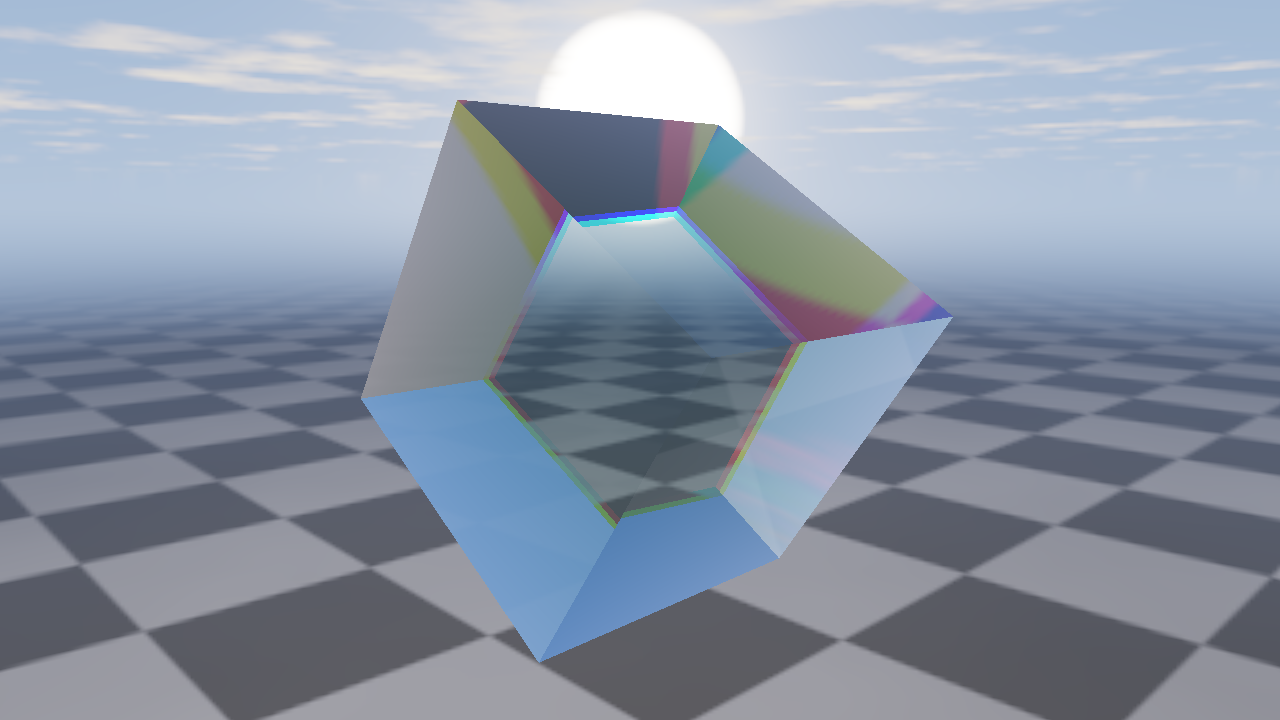
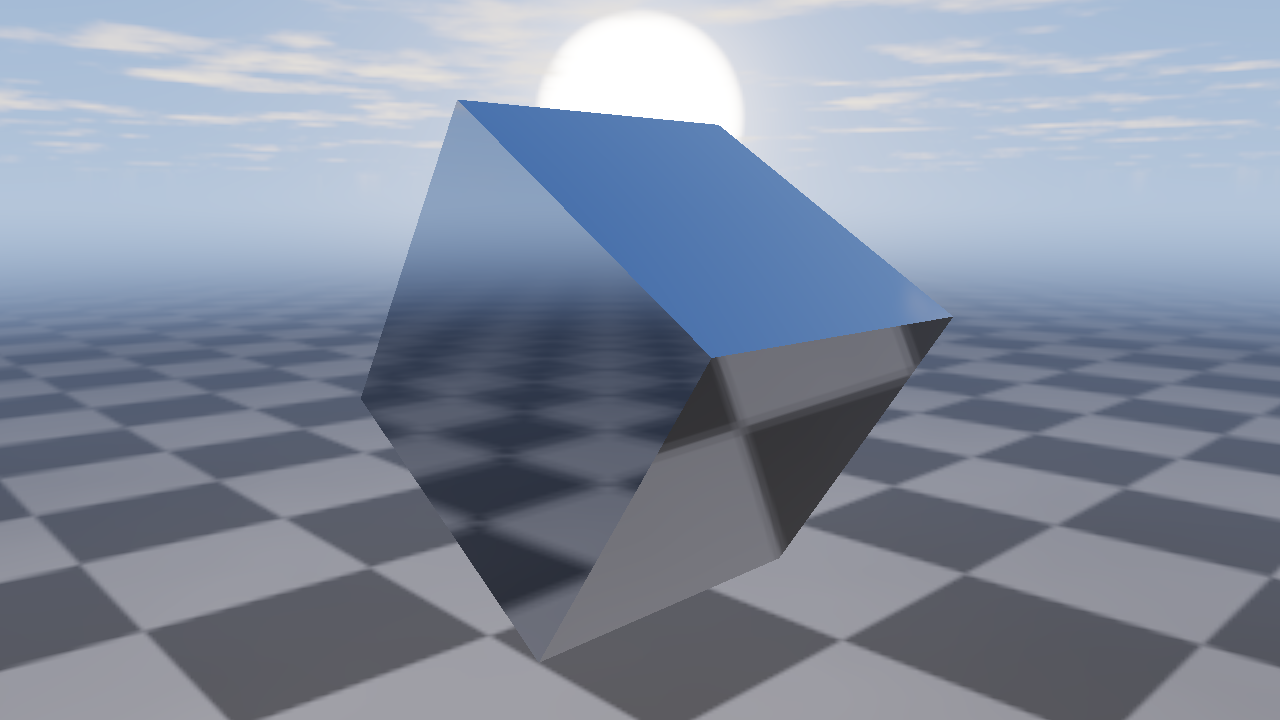
docs: make the environment map cube mirror metal
Replaces the glass shading with a polished-chrome conductor: one reflected ray
per pixel (a small cone of taps stands in for a roughness mip chain) weighted by
Schlick Fresnel over chrome's real normal-incidence reflectance, so the cube
reads as metal against the background instead of transmitting it.

Claude-Session: https://claude.ai/code/session_01GYg1cxsrXhgVLiY5aMn7qw

Changed region(s): [[0.2812, 0.1222, 0.75, 0.9167]]

diff --git a/apps/docs/lib/examples-source.generated.ts b/apps/docs/lib/examples-source.generated.ts
@@ -82,7 +82,7 @@ export const exampleSources = {
     {
       "name": "example.ts",
       "lang": "typescript",
-      "code": "import type { Draw, Effect, Frame, Gpu, Mesh, Surface, Target } from 'vgpu';\nimport { box } from 'vgpu/scene';\nimport { cameraView, spinMatrix, type CameraView } from './camera';\nimport { installOrbitInput } from './controls';\nimport skyWgsl from './sky.wgsl';\nimport glassWgsl from './glass.wgsl';\nimport presentWgsl from './present.wgsl';\n\ntype Output = Surface | Target;\ninterface ThumbOptions { warmupFrames?: number; dt?: number; time?: number }\n\nconst HDR_FORMAT: GPUTextureFormat = 'rgba16float';\n/** 2:1 is the equirectangular aspect: 360° of yaw by 180° of pitch. */\nconst ENV_SIZE: readonly [number, number] = [2048, 1024];\nconst CUBE_SIZE = 1.25;\nconst EXPOSURE = 0.9;\n\nconst SKY = {\n  sun_direction: [-0.724, 0.09, -0.684],\n  sun_angular_size: 0.05,\n  sun_color: [1.0, 0.88, 0.72],\n  sun_intensity: 26,\n  zenith_color: [0.05, 0.15, 0.44],\n  cloud_coverage: 0.56,\n  horizon_color: [0.36, 0.48, 0.74],\n  cloud_scale: 0.75,\n  ground_color: [0.05, 0.05, 0.056],\n  ground_scale: 1.7,\n} as const;\n\nconst GLASS = {\n  ior: 1.47,\n  dispersion: 0.045,\n  absorption: 0.26,\n  half_extent: CUBE_SIZE / 2,\n  edge_tint: 0.3,\n} as const;\n\ninterface Scene {\n  readonly env: Target;\n  readonly hdr: Target;\n  readonly mesh: Mesh;\n  readonly cube: Draw;\n  readonly present: Effect;\n}\n\nexport async function run(canvas: HTMLCanvasElement): Promise<() => void> {\n  const { init } = await import('vgpu');\n  const gpu = await init();\n  const surface = gpu.surface(canvas, { dpr: [1, 2] });\n  const scene = await createScene(gpu, surface);\n  const input = installOrbitInput(canvas);\n  let disposed = false;\n  let sawInitialResize = false;\n\n  const unsubscribeResize = surface.onResize(() => {\n    if (!sawInitialResize) { sawInitialResize = true; return; }\n    if (disposed) return;\n    scene.hdr.resize(surface.size);\n    // Resizing recreates the texture, so the composite binding has to be re-pointed.\n    scene.present.set({ scene_tex: scene.hdr });\n  });\n\n  const loop = gpu.frame.loop((frame) => {\n    input.advance(gpu.deltaTime);\n    render(frame, scene, surface, cameraView(input.yaw, input.pitch, aspectOf(surface)), gpu.time);\n  });\n\n  return () => {\n    if (disposed) return;\n    disposed = true;\n    loop.stop();\n    unsubscribeResize();\n    input.dispose();\n    destroyScene(scene);\n    surface.dispose();\n    gpu.dispose();\n  };\n}\n\nexport async function renderThumb(gpu: Gpu, output: Target, opts: ThumbOptions = {}): Promise<void> {\n  const scene = await createScene(gpu, output);\n  const dt = opts.dt ?? 1 / 60;\n  let time = opts.time ?? 2.1;\n\n  for (let i = 0; i < Math.max(1, opts.warmupFrames ?? 3); i++) {\n    time += dt;\n    const view = cameraView(0.62 + time * 0.09, 0.16, aspectOf(output));\n    gpu.frame((frame) => render(frame, scene, output, view, time));\n  }\n\n  await gpu.gpu.queue.onSubmittedWorkDone();\n  await gpu.settled();\n  destroyScene(scene);\n}\n\nasync function createScene(gpu: Gpu, output: Output): Promise<Scene> {\n  const env = gpu.target({ size: [...ENV_SIZE], format: HDR_FORMAT, label: 'environment-map-env' });\n  const hdr = gpu.target({ size: output.size, format: HDR_FORMAT, depth: true, label: 'environment-map-scene' });\n  const envSampler = gpu.sampler({\n    minFilter: 'linear',\n    magFilter: 'linear',\n    // u wraps the horizon; v must clamp so the poles never bleed across.\n    addressModeU: 'repeat',\n    addressModeV: 'clamp-to-edge',\n  });\n  const sceneSampler = gpu.sampler({ minFilter: 'linear', magFilter: 'linear' });\n\n  await bakeEnvironment(gpu, env);\n\n  const mesh = gpu.mesh(box({ size: CUBE_SIZE }));\n  const cube = gpu.draw({ shader: glassWgsl, mesh, label: 'environment-map-glass' });\n  cube.set({ ...GLASS, env_tex: env, env_samp: envSampler });\n\n  const present = gpu.effect(presentWgsl, { label: 'environment-map-present' });\n  present.set({ env_tex: env, env_samp: envSampler, scene_tex: hdr, scene_samp: sceneSampler });\n\n  await Promise.all([cube.compile(hdr), present.compile({ colors: [output.format] })]);\n  return { env, hdr, mesh, cube, present };\n}\n\n/**\n * One-shot pass that fills the equirectangular map; nothing re-runs it per frame.\n *\n * The map is baked procedurally so the example stays self-contained and renders the same\n * frame headlessly. To use a real 360° photo instead, replace this call with an upload and\n * hand the resulting texture to `set({ env_tex })` — nothing downstream changes:\n *\n * ```ts\n * const bitmap = await createImageBitmap(await (await fetch('/hdri.png')).blob());\n * const env = gpu.device.createTexture({\n *   size: [bitmap.width, bitmap.height],\n *   format: 'rgba8unorm',\n *   usage: ['texture_binding', 'copy_dst', 'render_attachment'],\n * });\n * gpu.gpu.queue.copyExternalImageToTexture({ source: bitmap }, { texture: env.gpu }, [bitmap.width, bitmap.height]);\n * ```\n */\nasync function bakeEnvironment(gpu: Gpu, env: Target): Promise<void> {\n  const bake = gpu.effect(skyWgsl, { label: 'environment-map-sky' });\n  bake.set({ sky: SKY });\n  await bake.compile(env);\n  gpu.frame((frame) => frame.pass({ target: env }, (pass) => pass.draw(bake)));\n}\n\nfunction render(frame: Frame, scene: Scene, output: Output, view: CameraView, time: number): void {\n  scene.cube.set({\n    view_projection: view.camera.viewProjection,\n    model: spinMatrix(time),\n    camera_position: view.position,\n  });\n  scene.present.set({\n    camera: {\n      position: view.position,\n      tan_half_fov: view.tanHalfFov,\n      forward: view.forward,\n      aspect: view.aspect,\n      right: view.right,\n      exposure: EXPOSURE,\n      up: view.up,\n      background_intensity: 1,\n    },\n  });\n\n  // Alpha 0 clear turns the cube pass into a coverage mask the composite reads back.\n  frame.pass({ target: scene.hdr, clear: [0, 0, 0, 0] }, (pass) => pass.draw(scene.cube));\n  frame.pass({ target: output }, (pass) => pass.draw(scene.present));\n}\n\nfunction aspectOf(output: Output): number {\n  return output.size[0] / Math.max(1, output.size[1]);\n}\n\nfunction destroyScene(scene: Scene): void {\n  for (const target of [scene.hdr, scene.env]) {\n    (target as Target & { destroy?: () => void }).destroy?.();\n  }\n}\n"
+      "code": "import type { Draw, Effect, Frame, Gpu, Mesh, Surface, Target } from 'vgpu';\nimport { box } from 'vgpu/scene';\nimport { cameraView, spinMatrix, type CameraView } from './camera';\nimport { installOrbitInput } from './controls';\nimport skyWgsl from './sky.wgsl';\nimport metalWgsl from './metal.wgsl';\nimport presentWgsl from './present.wgsl';\n\ntype Output = Surface | Target;\ninterface ThumbOptions { warmupFrames?: number; dt?: number; time?: number }\n\nconst HDR_FORMAT: GPUTextureFormat = 'rgba16float';\n/** 2:1 is the equirectangular aspect: 360° of yaw by 180° of pitch. */\nconst ENV_SIZE: readonly [number, number] = [2048, 1024];\nconst CUBE_SIZE = 1.25;\nconst EXPOSURE = 0.9;\n\nconst SKY = {\n  sun_direction: [-0.724, 0.09, -0.684],\n  sun_angular_size: 0.05,\n  sun_color: [1.0, 0.88, 0.72],\n  sun_intensity: 26,\n  zenith_color: [0.05, 0.15, 0.44],\n  cloud_coverage: 0.56,\n  horizon_color: [0.36, 0.48, 0.74],\n  cloud_scale: 0.75,\n  ground_color: [0.05, 0.05, 0.056],\n  ground_scale: 1.7,\n} as const;\n\nconst METAL = {\n  /** Normal-incidence reflectance of polished chrome; Fresnel takes the rest to white. */\n  base_color: [0.56, 0.57, 0.58],\n  /** Half-angle of the reflection cone, in radians. 0 is a perfect mirror. */\n  roughness: 0.008,\n} as const;\n\ninterface Scene {\n  readonly env: Target;\n  readonly hdr: Target;\n  readonly mesh: Mesh;\n  readonly cube: Draw;\n  readonly present: Effect;\n}\n\nexport async function run(canvas: HTMLCanvasElement): Promise<() => void> {\n  const { init } = await import('vgpu');\n  const gpu = await init();\n  const surface = gpu.surface(canvas, { dpr: [1, 2] });\n  const scene = await createScene(gpu, surface);\n  const input = installOrbitInput(canvas);\n  let disposed = false;\n  let sawInitialResize = false;\n\n  const unsubscribeResize = surface.onResize(() => {\n    if (!sawInitialResize) { sawInitialResize = true; return; }\n    if (disposed) return;\n    scene.hdr.resize(surface.size);\n    // Resizing recreates the texture, so the composite binding has to be re-pointed.\n    scene.present.set({ scene_tex: scene.hdr });\n  });\n\n  const loop = gpu.frame.loop((frame) => {\n    input.advance(gpu.deltaTime);\n    render(frame, scene, surface, cameraView(input.yaw, input.pitch, aspectOf(surface)), gpu.time);\n  });\n\n  return () => {\n    if (disposed) return;\n    disposed = true;\n    loop.stop();\n    unsubscribeResize();\n    input.dispose();\n    destroyScene(scene);\n    surface.dispose();\n    gpu.dispose();\n  };\n}\n\nexport async function renderThumb(gpu: Gpu, output: Target, opts: ThumbOptions = {}): Promise<void> {\n  const scene = await createScene(gpu, output);\n  const dt = opts.dt ?? 1 / 60;\n  let time = opts.time ?? 2.1;\n\n  for (let i = 0; i < Math.max(1, opts.warmupFrames ?? 3); i++) {\n    time += dt;\n    const view = cameraView(0.62 + time * 0.09, 0.16, aspectOf(output));\n    gpu.frame((frame) => render(frame, scene, output, view, time));\n  }\n\n  await gpu.gpu.queue.onSubmittedWorkDone();\n  await gpu.settled();\n  destroyScene(scene);\n}\n\nasync function createScene(gpu: Gpu, output: Output): Promise<Scene> {\n  const env = gpu.target({ size: [...ENV_SIZE], format: HDR_FORMAT, label: 'environment-map-env' });\n  const hdr = gpu.target({ size: output.size, format: HDR_FORMAT, depth: true, label: 'environment-map-scene' });\n  const envSampler = gpu.sampler({\n    minFilter: 'linear',\n    magFilter: 'linear',\n    // u wraps the horizon; v must clamp so the poles never bleed across.\n    addressModeU: 'repeat',\n    addressModeV: 'clamp-to-edge',\n  });\n  const sceneSampler = gpu.sampler({ minFilter: 'linear', magFilter: 'linear' });\n\n  await bakeEnvironment(gpu, env);\n\n  const mesh = gpu.mesh(box({ size: CUBE_SIZE }));\n  const cube = gpu.draw({ shader: metalWgsl, mesh, label: 'environment-map-metal' });\n  cube.set({ ...METAL, env_tex: env, env_samp: envSampler });\n\n  const present = gpu.effect(presentWgsl, { label: 'environment-map-present' });\n  present.set({ env_tex: env, env_samp: envSampler, scene_tex: hdr, scene_samp: sceneSampler });\n\n  await Promise.all([cube.compile(hdr), present.compile({ colors: [output.format] })]);\n  return { env, hdr, mesh, cube, present };\n}\n\n/**\n * One-shot pass that fills the equirectangular map; nothing re-runs it per frame.\n *\n * The map is baked procedurally so the example stays self-contained and renders the same\n * frame headlessly. To use a real 360° photo instead, replace this call with an upload and\n * hand the resulting texture to `set({ env_tex })` — nothing downstream changes:\n *\n * ```ts\n * const bitmap = await createImageBitmap(await (await fetch('/hdri.png')).blob());\n * const env = gpu.device.createTexture({\n *   size: [bitmap.width, bitmap.height],\n *   format: 'rgba8unorm',\n *   usage: ['texture_binding', 'copy_dst', 'render_attachment'],\n * });\n * gpu.gpu.queue.copyExternalImageToTexture({ source: bitmap }, { texture: env.gpu }, [bitmap.width, bitmap.height]);\n * ```\n */\nasync function bakeEnvironment(gpu: Gpu, env: Target): Promise<void> {\n  const bake = gpu.effect(skyWgsl, { label: 'environment-map-sky' });\n  bake.set({ sky: SKY });\n  await bake.compile(env);\n  gpu.frame((frame) => frame.pass({ target: env }, (pass) => pass.draw(bake)));\n}\n\nfunction render(frame: Frame, scene: Scene, output: Output, view: CameraView, time: number): void {\n  scene.cube.set({\n    view_projection: view.camera.viewProjection,\n    model: spinMatrix(time),\n    camera_position: view.position,\n  });\n  scene.present.set({\n    camera: {\n      position: view.position,\n      tan_half_fov: view.tanHalfFov,\n      forward: view.forward,\n      aspect: view.aspect,\n      right: view.right,\n      exposure: EXPOSURE,\n      up: view.up,\n      background_intensity: 1,\n    },\n  });\n\n  // Alpha 0 clear turns the cube pass into a coverage mask the composite reads back.\n  frame.pass({ target: scene.hdr, clear: [0, 0, 0, 0] }, (pass) => pass.draw(scene.cube));\n  frame.pass({ target: output }, (pass) => pass.draw(scene.present));\n}\n\nfunction aspectOf(output: Output): number {\n  return output.size[0] / Math.max(1, output.size[1]);\n}\n\nfunction destroyScene(scene: Scene): void {\n  for (const target of [scene.hdr, scene.env]) {\n    (target as Target & { destroy?: () => void }).destroy?.();\n  }\n}\n"
     },
     {
       "name": "camera.ts",
@@ -100,9 +100,9 @@ export const exampleSources = {
       "code": "import { direction_from_equirect } from \"./env-common.wgsl\";\n\n// Bakes a 360° equirectangular environment map once, at startup: sky gradient, sun disk,\n// cloud layer and a checkered floor, all in HDR. Swapping this pass for a loaded HDRI\n// leaves every consumer — background, reflections, refractions — unchanged.\nstruct Sky {\n  sun_direction: vec3f,\n  sun_angular_size: f32,\n  sun_color: vec3f,\n  sun_intensity: f32,\n  zenith_color: vec3f,\n  cloud_coverage: f32,\n  horizon_color: vec3f,\n  cloud_scale: f32,\n  ground_color: vec3f,\n  ground_scale: f32,\n};\n@group(0) @binding(0) var<uniform> sky: Sky;\n\nfn hash(p: vec2f) -> f32 {\n  var q = fract(vec3f(p.x, p.y, p.x) * 0.1031);\n  q += dot(q, q.yzx + 33.33);\n  return fract((q.x + q.y) * q.z);\n}\n\nfn value_noise(p: vec2f) -> f32 {\n  let i = floor(p);\n  let f = fract(p);\n  let w = f * f * (3.0 - 2.0 * f);\n  let a = hash(i);\n  let b = hash(i + vec2f(1.0, 0.0));\n  let c = hash(i + vec2f(0.0, 1.0));\n  let d = hash(i + vec2f(1.0, 1.0));\n  return mix(mix(a, b, w.x), mix(c, d, w.x), w.y);\n}\n\nfn fbm(p: vec2f) -> f32 {\n  var sum = 0.0;\n  var amplitude = 0.5;\n  var point = p;\n  for (var octave = 0; octave < 5; octave++) {\n    sum += amplitude * value_noise(point);\n    point = point * 2.03 + vec2f(17.0, 9.0);\n    amplitude *= 0.5;\n  }\n  return sum;\n}\n\n// Clouds live on a flat layer above the camera, so the direction is projected onto it.\n// The projection stretches naturally toward the horizon, which is what sells the depth.\nfn cloud_layer(direction: vec3f, sun: vec3f) -> vec2f {\n  let height = max(direction.y, 0.035);\n  let plane = direction.xz / height * sky.cloud_scale;\n  let base = fbm(plane);\n  let detail = fbm(plane * 3.1 + vec2f(base * 1.6));\n  let density = smoothstep(sky.cloud_coverage, sky.cloud_coverage + 0.28, base * 0.75 + detail * 0.35);\n  let horizon_fade = smoothstep(0.0, 0.12, direction.y);\n  let lit = pow(clamp(dot(direction, sun) * 0.5 + 0.5, 0.0, 1.0), 3.0);\n  return vec2f(density * horizon_fade, lit);\n}\n\n// Box-filtered checkerboard (iq): the pattern is integrated over each texel's footprint\n// instead of point-sampled, so the tiles neither alias at the horizon nor turn into\n// stair-steps when the map is magnified behind the cube.\nfn checker_box(p: vec2f, w: vec2f) -> f32 {\n  let i = 2.0 * (abs(fract((p - 0.5 * w) * 0.5) - 0.5) - abs(fract((p + 0.5 * w) * 0.5) - 0.5)) / w;\n  return 0.5 - 0.5 * i.x * i.y;\n}\n\n// Below the horizon the direction is projected onto a floor plane. A checker floor is\n// the classic environment-map read: it makes reflections and refractions legible\n// because the eye already knows what straight tile seams are supposed to look like.\nfn ground(direction: vec3f, sun: vec3f) -> vec3f {\n  let depth = max(-direction.y, 0.001);\n  let plane = direction.xz / depth * sky.ground_scale;\n  // Tiles pack together toward the horizon, so their contrast fades with distance.\n  let fade = 1.0 / (1.0 + dot(plane, plane) * 0.02);\n\n  var color = sky.ground_color * (1.0 + checker_box(plane, fwidth(plane) + vec2f(1e-3)) * 3.4);\n  color *= 0.8 + fbm(plane * 0.3) * 0.6;\n  color += sky.sun_color * 0.05 * clamp(dot(normalize(vec3f(plane.x, 0.0, plane.y)), sun), 0.0, 1.0);\n\n  return mix(sky.horizon_color * 0.22, color, fade);\n}\n\n@fragment\nfn fs_main(@location(0) uv: vec2f) -> @location(0) vec4f {\n  let direction = direction_from_equirect(uv);\n  let sun = normalize(sky.sun_direction);\n\n  let up = clamp(direction.y, 0.0, 1.0);\n  var color = mix(sky.horizon_color, sky.zenith_color, pow(up, 0.75));\n\n  // Warm scattering around the sun, then the disk itself as a small very bright core.\n  let sun_dot = clamp(dot(direction, sun), 0.0, 1.0);\n  color += sky.sun_color * pow(sun_dot, 26.0) * 0.22;\n  color += sky.sun_color * pow(sun_dot, 220.0) * 0.9;\n  let disk = smoothstep(cos(sky.sun_angular_size * 2.2), cos(sky.sun_angular_size), sun_dot);\n  color += sky.sun_color * sky.sun_intensity * disk;\n\n  let cloud = cloud_layer(direction, sun);\n  let cloud_color = mix(vec3f(0.30, 0.34, 0.44), sky.sun_color * 1.05, cloud.y);\n  color = mix(color, cloud_color, cloud.x * (1.0 - disk));\n\n  // Below the horizon the map turns into ground, blended through a haze band so\n  // reflections never show a hard equator line.\n  let horizon = smoothstep(-0.14, 0.02, direction.y);\n  color = mix(ground(direction, sun), color, horizon);\n\n  return vec4f(color, 1.0);\n}\n"
     },
     {
-      "name": "glass.wgsl",
+      "name": "metal.wgsl",
       "lang": "wgsl",
-      "code": "import { sample_env } from \"./env-common.wgsl\";\n\n// Glass cube shaded entirely from the environment map: a Fresnel-weighted mix of one\n// reflected ray and three refracted rays (one per channel, which is what makes the\n// dispersion rainbow). No lights, no shadow maps — just the 360° texture.\nstruct Uniforms {\n  view_projection: mat4x4f,\n  model: mat4x4f,\n  camera_position: vec3f,\n  ior: f32,\n  dispersion: f32,\n  absorption: f32,\n  half_extent: f32,\n  edge_tint: f32,\n};\n@group(0) @binding(0) var<uniform> uniforms: Uniforms;\n@group(0) @binding(1) var env_tex: texture_2d<f32>;\n@group(0) @binding(2) var env_samp: sampler;\n\nstruct VertexOut {\n  @builtin(position) position: vec4f,\n  @location(0) world_position: vec3f,\n  @location(1) world_normal: vec3f,\n  @location(2) local_position: vec3f,\n};\n\n@vertex\nfn vs_main(@location(0) position: vec3f, @location(1) normal: vec3f) -> VertexOut {\n  let world = uniforms.model * vec4f(position, 1.0);\n  var out: VertexOut;\n  out.position = uniforms.view_projection * world;\n  out.world_position = world.xyz;\n  // `model` is rotation-only, so the normal needs no inverse-transpose.\n  out.world_normal = (uniforms.model * vec4f(normal, 0.0)).xyz;\n  out.local_position = position;\n  return out;\n}\n\nfn rotation() -> mat3x3f {\n  return mat3x3f(uniforms.model[0].xyz, uniforms.model[1].xyz, uniforms.model[2].xyz);\n}\n\n// Distance from a point inside the cube to the wall it leaves through (slab test,\n// exit side only, so the smallest positive slab hit wins).\nfn exit_distance(origin: vec3f, direction: vec3f, half_extent: f32) -> f32 {\n  let safe = select(direction, vec3f(1e-5), abs(direction) < vec3f(1e-5));\n  let planes = (sign(safe) * half_extent - origin) / safe;\n  return max(min(min(planes.x, planes.y), planes.z), 0.0);\n}\n\nfn box_normal(point: vec3f, half_extent: f32) -> vec3f {\n  let d = abs(point) / max(half_extent, 1e-5);\n  let axis = step(max(d.y, d.z), d.x) * vec3f(1.0, 0.0, 0.0)\n    + step(max(d.x, d.z), d.y) * vec3f(0.0, 1.0, 0.0)\n    + step(max(d.x, d.y), d.z) * vec3f(0.0, 0.0, 1.0);\n  return normalize(sign(point) * axis);\n}\n\nstruct Refraction {\n  direction: vec3f,\n  distance: f32,\n};\n\n// Two-interface refraction: bend on the way in, walk to the far wall in local space,\n// bend again on the way out. A single-interface approximation looks like a bubble;\n// this looks like a solid block.\nfn refract_through_cube(entry_point: vec3f, incident: vec3f, normal: vec3f, ior: f32) -> Refraction {\n  let inside = refract(incident, normal, 1.0 / ior);\n  if (dot(inside, inside) < 1e-6) {\n    return Refraction(reflect(incident, normal), 0.0);\n  }\n\n  let rot = rotation();\n  let local_direction = normalize(transpose(rot) * inside);\n  let travel = exit_distance(entry_point, local_direction, uniforms.half_extent);\n  let exit_local = entry_point + local_direction * travel;\n  let exit_normal = normalize(rot * box_normal(exit_local, uniforms.half_extent));\n\n  // At the exit the ray leaves the dense medium, so the usable normal faces inward.\n  var outgoing = refract(inside, -exit_normal, ior);\n  if (dot(outgoing, outgoing) < 1e-6) {\n    outgoing = reflect(inside, -exit_normal);\n  }\n  return Refraction(normalize(outgoing), travel);\n}\n\nfn refracted_sample(entry_point: vec3f, incident: vec3f, normal: vec3f, ior: f32) -> vec4f {\n  let path = refract_through_cube(entry_point, incident, normal, ior);\n  return vec4f(sample_env(env_tex, env_samp, path.direction), path.distance);\n}\n\n@fragment\nfn fs_main(in: VertexOut) -> @location(0) vec4f {\n  let normal = normalize(in.world_normal);\n  let incident = normalize(in.world_position - uniforms.camera_position);\n  let facing = clamp(dot(-incident, normal), 0.0, 1.0);\n\n  // Schlick, with glass's usual 4% base reflectance.\n  let fresnel = 0.04 + 0.96 * pow(1.0 - facing, 5.0);\n\n  let reflected = sample_env(env_tex, env_samp, reflect(incident, normal));\n\n  // One chain per channel: shorter wavelengths bend harder, so red/green/blue exit\n  // along slightly different directions and the edges split into a spectrum.\n  let red = refracted_sample(in.local_position, incident, normal, uniforms.ior - uniforms.dispersion);\n  let green = refracted_sample(in.local_position, incident, normal, uniforms.ior);\n  let blue = refracted_sample(in.local_position, incident, normal, uniforms.ior + uniforms.dispersion);\n  var transmitted = vec3f(red.r, green.g, blue.b);\n\n  // Beer-Lambert tint: the longer the ray stays in the glass, the greener it gets.\n  let path = (red.a + green.a + blue.a) / 3.0;\n  transmitted *= exp(-uniforms.absorption * path * vec3f(1.15, 0.72, 0.9));\n\n  let color = mix(transmitted, reflected, fresnel)\n    + vec3f(0.35, 0.55, 0.85) * pow(1.0 - facing, 8.0) * uniforms.edge_tint;\n  return vec4f(color, 1.0);\n}\n"
+      "code": "import { sample_env } from \"./env-common.wgsl\";\n\n// Mirror-metal cube shaded entirely from the environment map: one reflected ray per\n// pixel, weighted by a conductor Fresnel term. No lights, no shadow maps — a polished\n// metal surface is nothing but the environment seen from a different angle.\nstruct Uniforms {\n  view_projection: mat4x4f,\n  model: mat4x4f,\n  camera_position: vec3f,\n  roughness: f32,\n  base_color: vec3f,\n};\n@group(0) @binding(0) var<uniform> uniforms: Uniforms;\n@group(0) @binding(1) var env_tex: texture_2d<f32>;\n@group(0) @binding(2) var env_samp: sampler;\n\nstruct VertexOut {\n  @builtin(position) position: vec4f,\n  @location(0) world_position: vec3f,\n  @location(1) world_normal: vec3f,\n};\n\n@vertex\nfn vs_main(@location(0) position: vec3f, @location(1) normal: vec3f) -> VertexOut {\n  let world = uniforms.model * vec4f(position, 1.0);\n  var out: VertexOut;\n  out.position = uniforms.view_projection * world;\n  out.world_position = world.xyz;\n  // `model` is rotation-only, so the normal needs no inverse-transpose.\n  out.world_normal = (uniforms.model * vec4f(normal, 0.0)).xyz;\n  return out;\n}\n\n// A small cone of taps stands in for a prefiltered roughness mip chain: enough to take\n// the hard edge off the reflected checker floor without building a whole pyramid.\n// Set roughness to 0 for a perfect mirror.\nfn glossy_env(direction: vec3f, roughness: f32) -> vec3f {\n  let helper = select(vec3f(0.0, 1.0, 0.0), vec3f(1.0, 0.0, 0.0), abs(direction.y) > 0.95);\n  let tangent = normalize(cross(helper, direction));\n  let bitangent = cross(direction, tangent);\n\n  var offsets = array<vec2f, 4>(vec2f(1.0, 0.0), vec2f(-1.0, 0.0), vec2f(0.0, 1.0), vec2f(0.0, -1.0));\n  var sum = sample_env(env_tex, env_samp, direction);\n  for (var i = 0; i < 4; i++) {\n    let offset = offsets[i] * roughness;\n    sum += sample_env(env_tex, env_samp, direction + tangent * offset.x + bitangent * offset.y);\n  }\n  return sum * 0.2;\n}\n\n@fragment\nfn fs_main(in: VertexOut) -> @location(0) vec4f {\n  let normal = normalize(in.world_normal);\n  let view = normalize(uniforms.camera_position - in.world_position);\n  let facing = clamp(dot(view, normal), 0.0, 1.0);\n\n  // Conductor Fresnel: `base_color` is the metal's normal-incidence reflectance, and\n  // every metal turns into a white mirror at grazing angles.\n  let fresnel = uniforms.base_color + (vec3f(1.0) - uniforms.base_color) * pow(1.0 - facing, 5.0);\n\n  return vec4f(glossy_env(reflect(-view, normal), uniforms.roughness) * fresnel, 1.0);\n}\n"
     },
     {
       "name": "present.wgsl",

diff --git a/apps/docs/examples/environment-map/example.ts b/apps/docs/examples/environment-map/example.ts
@@ -3,7 +3,7 @@ import { box } from 'vgpu/scene';
 import { cameraView, spinMatrix, type CameraView } from './camera';
 import { installOrbitInput } from './controls';
 import skyWgsl from './sky.wgsl';
-import glassWgsl from './glass.wgsl';
+import metalWgsl from './metal.wgsl';
 import presentWgsl from './present.wgsl';
 
 type Output = Surface | Target;
@@ -28,12 +28,11 @@ const SKY = {
   ground_scale: 1.7,
 } as const;
 
-const GLASS = {
-  ior: 1.47,
-  dispersion: 0.045,
-  absorption: 0.26,
-  half_extent: CUBE_SIZE / 2,
-  edge_tint: 0.3,
+const METAL = {
+  /** Normal-incidence reflectance of polished chrome; Fresnel takes the rest to white. */
+  base_color: [0.56, 0.57, 0.58],
+  /** Half-angle of the reflection cone, in radians. 0 is a perfect mirror. */
+  roughness: 0.008,
 } as const;
 
 interface Scene {
@@ -109,8 +108,8 @@ async function createScene(gpu: Gpu, output: Output): Promise<Scene> {
   await bakeEnvironment(gpu, env);
 
   const mesh = gpu.mesh(box({ size: CUBE_SIZE }));
-  const cube = gpu.draw({ shader: glassWgsl, mesh, label: 'environment-map-glass' });
-  cube.set({ ...GLASS, env_tex: env, env_samp: envSampler });
+  const cube = gpu.draw({ shader: metalWgsl, mesh, label: 'environment-map-metal' });
+  cube.set({ ...METAL, env_tex: env, env_samp: envSampler });
 
   const present = gpu.effect(presentWgsl, { label: 'environment-map-present' });
   present.set({ env_tex: env, env_samp: envSampler, scene_tex: hdr, scene_samp: sceneSampler });

diff --git a/apps/docs/examples/environment-map/meta.ts b/apps/docs/examples/environment-map/meta.ts
@@ -1,7 +1,7 @@
 export const meta = {
   slug: 'environment-map',
   title: 'Environment Map',
-  description: 'One 360° equirectangular map lights the whole scene: it is the background, the reflection, and the dispersive refraction inside a floating glass cube.',
+  description: 'One 360° equirectangular map lights the whole scene: it is the background and every reflection on a mirror-metal cube floating in it.',
   thumb: { warmupFrames: 3, dt: 1 / 60, time: 2.1 },
-  files: ['example.ts', 'camera.ts', 'controls.ts', 'sky.wgsl', 'glass.wgsl', 'present.wgsl', 'env-common.wgsl'],
+  files: ['example.ts', 'camera.ts', 'controls.ts', 'sky.wgsl', 'metal.wgsl', 'present.wgsl', 'env-common.wgsl'],
 } as const;
